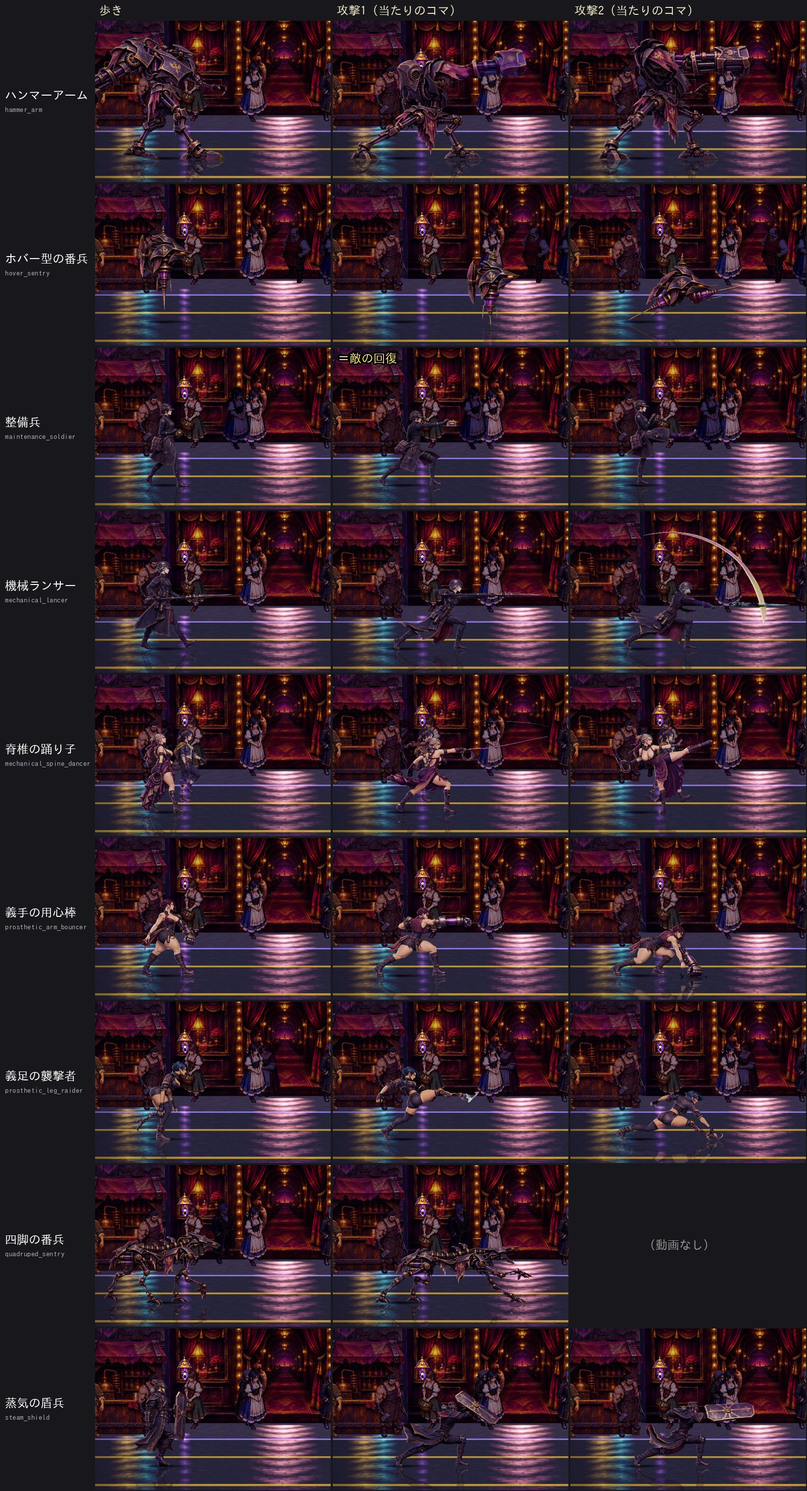
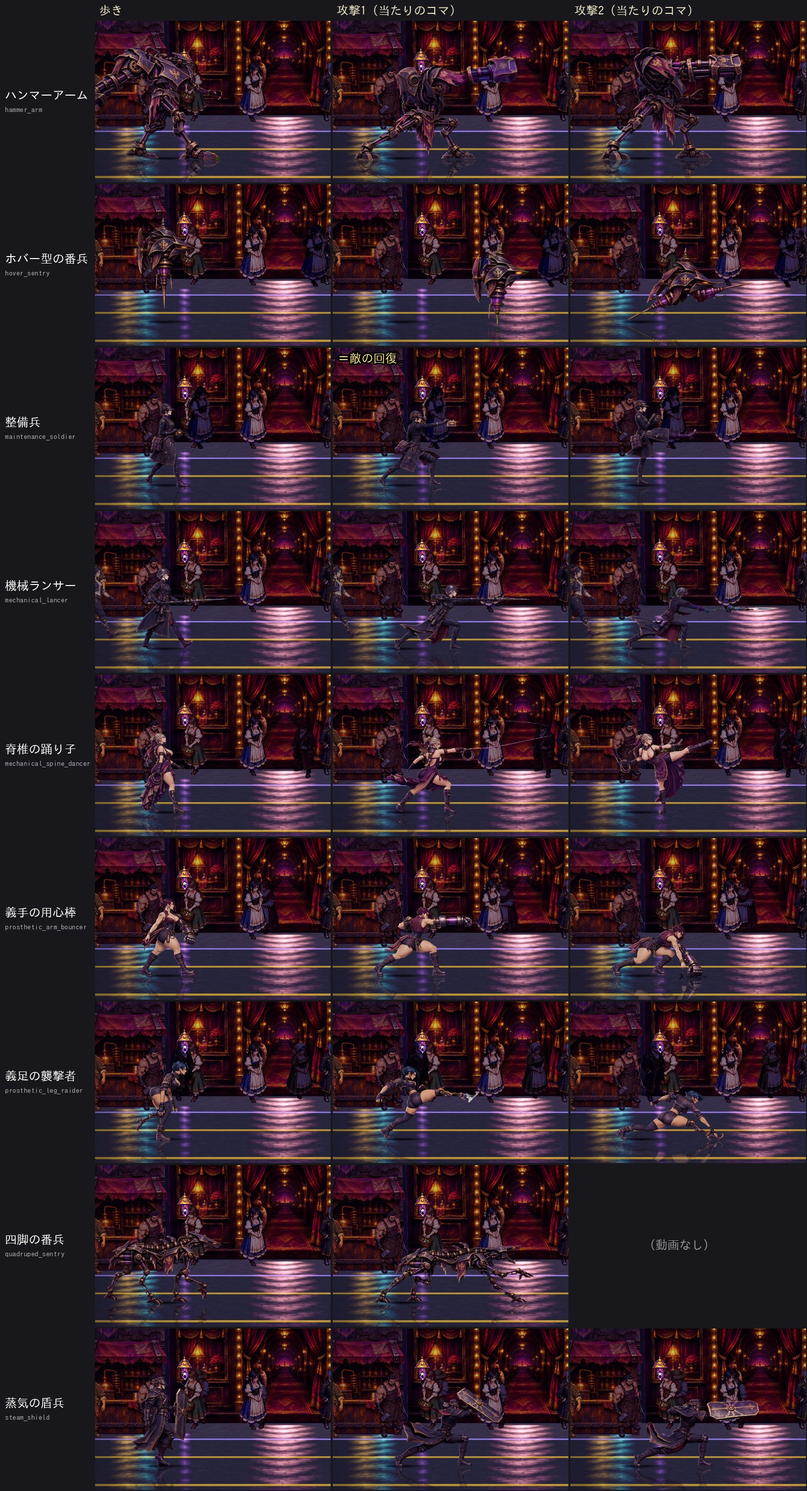
SA2 敵：ランサーの攻撃2の焼き込みの弧を消す、被弾ののけぞり、設定資料と身長の並び
Claude-Session: https://claude.ai/code/session_01U4ZkdGc6u8TfUBpPKsYFtS

diff --git a/sequel/docs/sa2_enemies_settings.md b/sequel/docs/sa2_enemies_settings.md
@@ -1,0 +1,37 @@
+# SA2 敵の設定資料（第1弾 9体）
+
+最終更新：2026-11-20。数値の正本は `scripts/enemy.gd` の `HEIGHT`・`FOE2`。この表と食い違ったらコードを正とし、表を直す。
+
+- 確定＝ユーザーが決めたもの。仮＝Claude が入れた値で、まだ決まっていない。
+- 体力・攻撃は「一般兵（前作の槍兵・山賊）の何倍か」。一般兵の体力＝(60＋10×強さ)、攻撃＝(7＋強さ)。
+- 背＝歩きの1コマ目の全高（m）。ラナ＝1.85m。確認画像：[身長の並び](sa2_foes_img/height_lineup.jpg)
+
+## 一覧（攻撃の中身は、絵を見た説明）
+
+| 敵 | 名前（コード） | 役割 | 背 m | 体力 | 攻撃 | 攻撃1 | 攻撃2 |
+|---|---|---|---|---|---|---|---|
+| ハンマーアーム | hammer_arm | ボス候補（確定） | 2.6 仮 | 1.6 | 1.4 | 腕のハンマー | 腕のハンマー |
+| 四脚の番兵 | quadruped_sentry | ボス候補（確定） | 1.5 仮 | 1.1 | 1.0 | 飛びかかり | （動画なし） |
+| 蒸気の盾兵 | steam_shield | 雑魚 | 1.95 仮 | 1.5 | 0.9 | 盾の突き | 盾の振り |
+| ホバー型の番兵 | hover_sentry | 雑魚（浮いている） | 2.0 仮（針の先まで） | 0.8 | 1.0 | 針の突き | 横倒しの突進 |
+| 機械ランサー | mechanical_lancer | 雑魚 | 1.85 仮 | 1.0 | 1.1 | 槍の突き | 振り下ろし（焼き込みの弧は消した） |
+| 義手の用心棒 | prosthetic_arm_bouncer | 雑魚 | 1.85 仮 | 1.2 | 1.2 | 義手の突き | 低い薙ぎ |
+| 整備兵 | maintenance_soldier | 雑魚（回復役） | 1.8 仮 | 0.9 | 0.8 | **敵の回復**（確定） | 蹴り |
+| 脊椎の踊り子 | mechanical_spine_dancer | 雑魚 | 1.8 仮 | 0.9 | 1.0 | 鞭（長い） | 蹴り |
+| 義足の襲撃者 | prosthetic_leg_raider | 雑魚 | 1.8 仮 | 1.0 | 1.0 | 蹴り（光の筋は残す） | 低い滑り込み |
+
+- 体力・攻撃の倍率：この値で可（2026-11-20 ユーザー「問題なし」）。
+- 整備兵の回復：4m 以内の敵（自分も）の体力を最大の 25％戻す。床の赤い予兆なし。ラナには当たらない。回復量・距離は仮。
+
+## 共通の動き（全員同じ。仮）
+
+- 届く距離：当たりのコマで前へ出た分＋0.3m（1.45m より短くはしない）。奥行き ±0.45m。
+- 当たりのコマ：攻撃の中で前へいちばん出たコマ。
+- 被弾（確定：B＝絵を傾けて揺らす）：白く光る → 打たれた向きへのけぞる（弱 0.26 秒・約 7°、強 0.45 秒・約 13°）→ 揺れて戻る。ボスはのけぞらない。
+- 絵：歩き 12fps、攻撃 8fps。
+
+## 未決
+
+- テーマの割り当て（テーマごとに雑魚2＋ボス1）。今の9体はボス候補2・雑魚7。4テーマ分（ボス4・雑魚8）には足りない。
+- 背の高さ（上の「仮」）。
+- ボスの体力・攻撃（今は雑魚と同じ式。前作の敵将 g1 はボス用の値）。

diff --git a/sequel/docs/sa2_foes_handoff_20261120.md b/sequel/docs/sa2_foes_handoff_20261120.md
@@ -13,6 +13,14 @@
 - テスト：`tests/sa2_foes_room_test.gd`（9体が出る・両方の攻撃が最後まで流れる・回復で体力が戻りラナは被弾しない・リセット）PASS。`sa2_t6_rana_test_room_test` も PASS。`FOES_CAPTURE=<フォルダ>` で撮影。
 - 画像：`docs/sa2_foes_img/foes_grid.jpg`（名前｜歩き｜攻撃1｜攻撃2）、`trail_*.jpg`（焼き込みの軌跡、8fps のコマに番号）。
 
+## 2回目（2026-11-20 ユーザーの答え）
+- 軌跡：ランサーの攻撃2だけ消した（`make_enemies.py` の `FX_BOX`。枠の中の明るいピンク〜黄緑だけを消し、槍は残す）。義足の襲撃者は残す。`ONLY=<敵>` でその敵だけ作り直せる。
+- テーマ：雑魚2＋ボス1。ボス候補＝ハンマーアーム・四脚の番兵（割り当ては未決）。
+- 体力・攻撃力：今の値で可。
+- 被弾：B（絵を傾けて揺らす。`enemy.gd` の `_hurt_pose`）。撮影 `docs/sa2_foes_img/foes_hurt.jpg`。
+- 設定資料：[sa2_enemies_settings.md](sa2_enemies_settings.md)、身長の並び `docs/sa2_foes_img/height_lineup.jpg`。
+- Web の試し版：`previews/sa2-foes/?mode=foes`。
+
 ## 未決（ユーザー判定待ち）
 - 焼き込みの軌跡を消すか：ランサー攻撃2 のコマ 10〜14（ピンクの弧、12〜13 は緑の土煙も）、義足の襲撃者 攻撃1 コマ 6・攻撃2 コマ 9（光の筋）。
 - テーマの割り当て・ボス、体力・攻撃力、背の高さ、被弾の見せ方。
